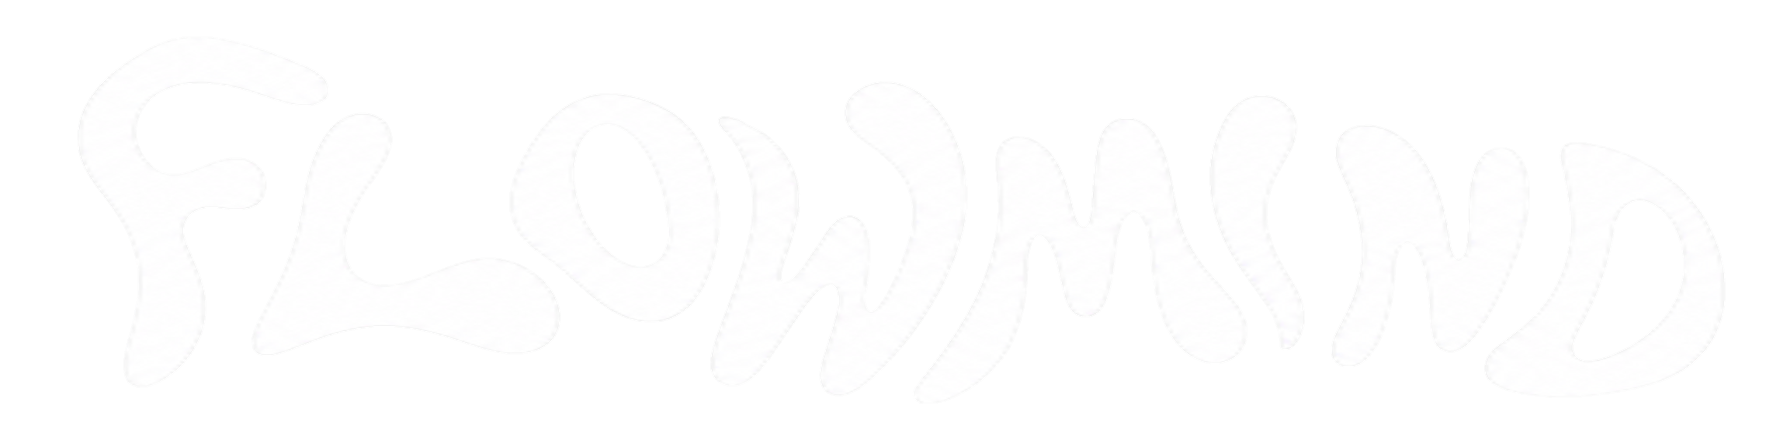
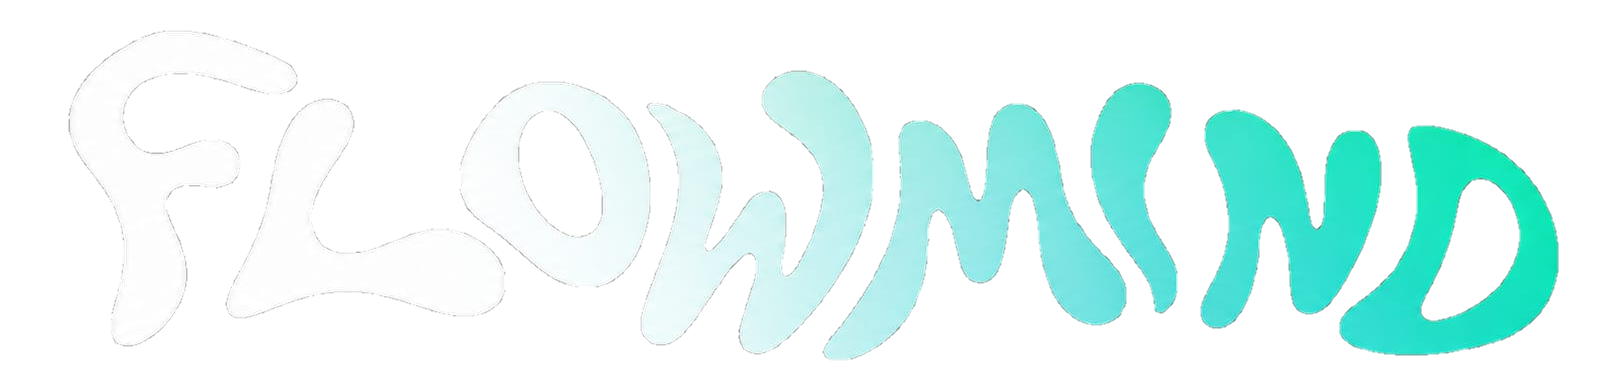
edited

Changed region(s): [[0.375, 0.1851, 1.0, 0.9254]]

diff --git a/flowmind/src/pages/LeaderSetup.tsx b/flowmind/src/pages/LeaderSetup.tsx
@@ -147,12 +147,16 @@ export default function LeaderSetup({ onClose, defaultUniversal }: { onClose?: (
   }
 
   return (
-    <div style={{ margin: '0 auto' }}>
-      <div style={{ display: 'flex', justifyContent: 'space-between', alignItems: 'center', marginBottom: '16px' }}>
-        <h2 className={styles.title} style={{ margin: 0, fontSize: '20px' }}>Create New Team</h2>
+    <div style={{ maxWidth: '520px', width: '100%', margin: '0 auto' }}>
+      <div style={{ display: 'flex', justifyContent: 'flex-end', marginBottom: '-10px', position: 'relative', zIndex: 10 }}>
         <button className="btn-ghost" onClick={onClose} style={{ padding: '4px', width: '32px', height: '32px', display: 'flex', alignItems: 'center', justifyContent: 'center' }}>✕</button>
       </div>
-      <p className={styles.sub} style={{ marginBottom: '20px' }}>Set up your project and get a shareable team code for your members</p>
+
+      <div className={styles.header}>
+        <div className={styles.iconWrap}><Crown size={24} /></div>
+        <h2 className={styles.title} style={{ margin: '16px 0 8px 0', fontSize: '24px' }}>Create New Team</h2>
+        <p className={styles.sub} style={{ marginBottom: '24px' }}>Set up your project and get a shareable team code for your members</p>
+      </div>
 
       <div className={styles.form}>
         {/* Universal Toggle */}

diff --git a/flowmind/src/pages/UserDashboard.module.css b/flowmind/src/pages/UserDashboard.module.css
@@ -99,10 +99,11 @@
 }
 
 .nameHighlight {
-  background: linear-gradient(135deg, #14b8a6, #3b82f6);
+  /* background: linear-gradient(135deg, #14b8a6, #3b82f6);
   -webkit-background-clip: text;
   background-clip: text;
-  -webkit-text-fill-color: transparent;
+  -webkit-text-fill-color: transparent; */
+  color: #ffffff;
 }
 
 .sub {
@@ -294,7 +295,7 @@
 }
 
 .teamCodeBadge {
-  background: var(--accent);
+  background: #4977c1;
   color: #ffffff;
   padding: 3px 10px;
   border-radius: 100px;

diff --git a/flowmind/src/components/Sidebar.tsx b/flowmind/src/components/Sidebar.tsx
@@ -67,7 +67,7 @@ export default function Sidebar({ activeTab, setActiveTab }) {
         {/* Clickable logo → team switcher */}
         <div className={styles.logo} onClick={() => setShowSwitcher(true)} style={{ cursor: 'pointer' }} title="Switch team">
           <img src={new URL('../assets/flowmind.png', import.meta.url).href} alt="FlowMind" style={{ height: '35px', width: 'auto' }} />
-          <span className={styles.logoMark}>FM</span>
+
         </div>
 
         <div className={styles.project}>

diff --git a/flowmind/src/pages/AuthPage.tsx b/flowmind/src/pages/AuthPage.tsx
@@ -70,7 +70,7 @@ export default function AuthPage({ onClose }: { onClose?: () => void }) {
         )}
         <div className={styles.logo}>
           <img src={flowmindImg} alt="FlowMind" style={{ width: '130px', height: '36px', borderRadius: '6px' }} />
-          <span className={styles.logoMark}>FM</span>
+
         </div>
 
         <div className={styles.title}>{mode === 'signup' ? 'Create Account' : 'Welcome Back'}</div>

diff --git a/flowmind/src/pages/FindTeams.tsx b/flowmind/src/pages/FindTeams.tsx
@@ -216,7 +216,7 @@ export default function FindTeams() {
       <nav className={styles.topNav} style={{ display: 'flex', justifyContent: 'space-between', alignItems: 'center' }}>
         <div className={styles.logo}>
           <img src={new URL('../assets/flowmind.png', import.meta.url).href} alt="FlowMind" style={{ height: '35px', width: 'auto' }} />
-          <span className={styles.logoMark}>FM</span>
+
         </div>
 
         <div style={{ display: 'flex', alignItems: 'center', gap: '16px' }}>

diff --git a/flowmind/src/pages/Landing.tsx b/flowmind/src/pages/Landing.tsx
@@ -28,7 +28,7 @@ export default function Landing() {
 
       <nav className={styles.nav}>
         <div className={styles.logo} onClick={() => isAuthenticated && setShowSwitcher(true)} style={isAuthenticated ? { cursor: 'pointer' } : {}}>
-          <span className={styles.logoMark}>FM</span>
+
           <span className={styles.logoText}>FlowMind</span>
         </div>
         <div style={{ display: 'flex', alignItems: 'center', gap: '10px' }}>

diff --git a/flowmind/src/pages/UserDashboard.tsx b/flowmind/src/pages/UserDashboard.tsx
@@ -109,7 +109,7 @@ export default function UserDashboard() {
       <nav className={styles.topNav}>
         <div className={styles.logo}>
           <img src={new URL('../assets/flowmind.png', import.meta.url).href} alt="FlowMind" style={{ height: '35px', width: 'auto' }} />
-          <span className={styles.logoMark}>FM</span>
+
         </div>
 
         <div ref={menuRef} style={{ position: 'relative' }}>